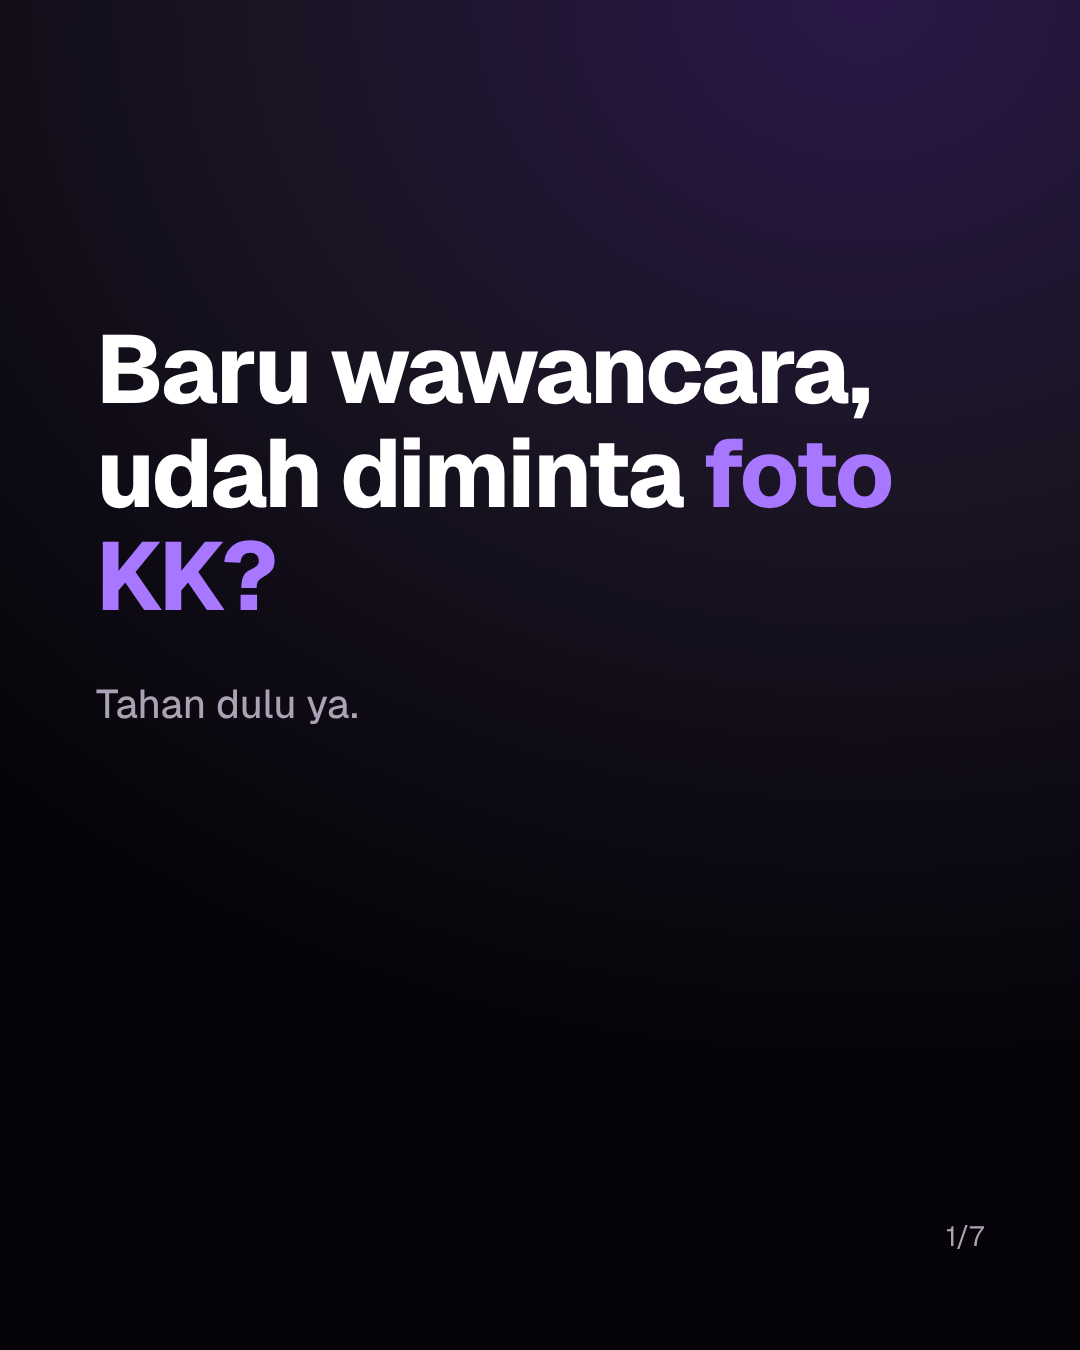
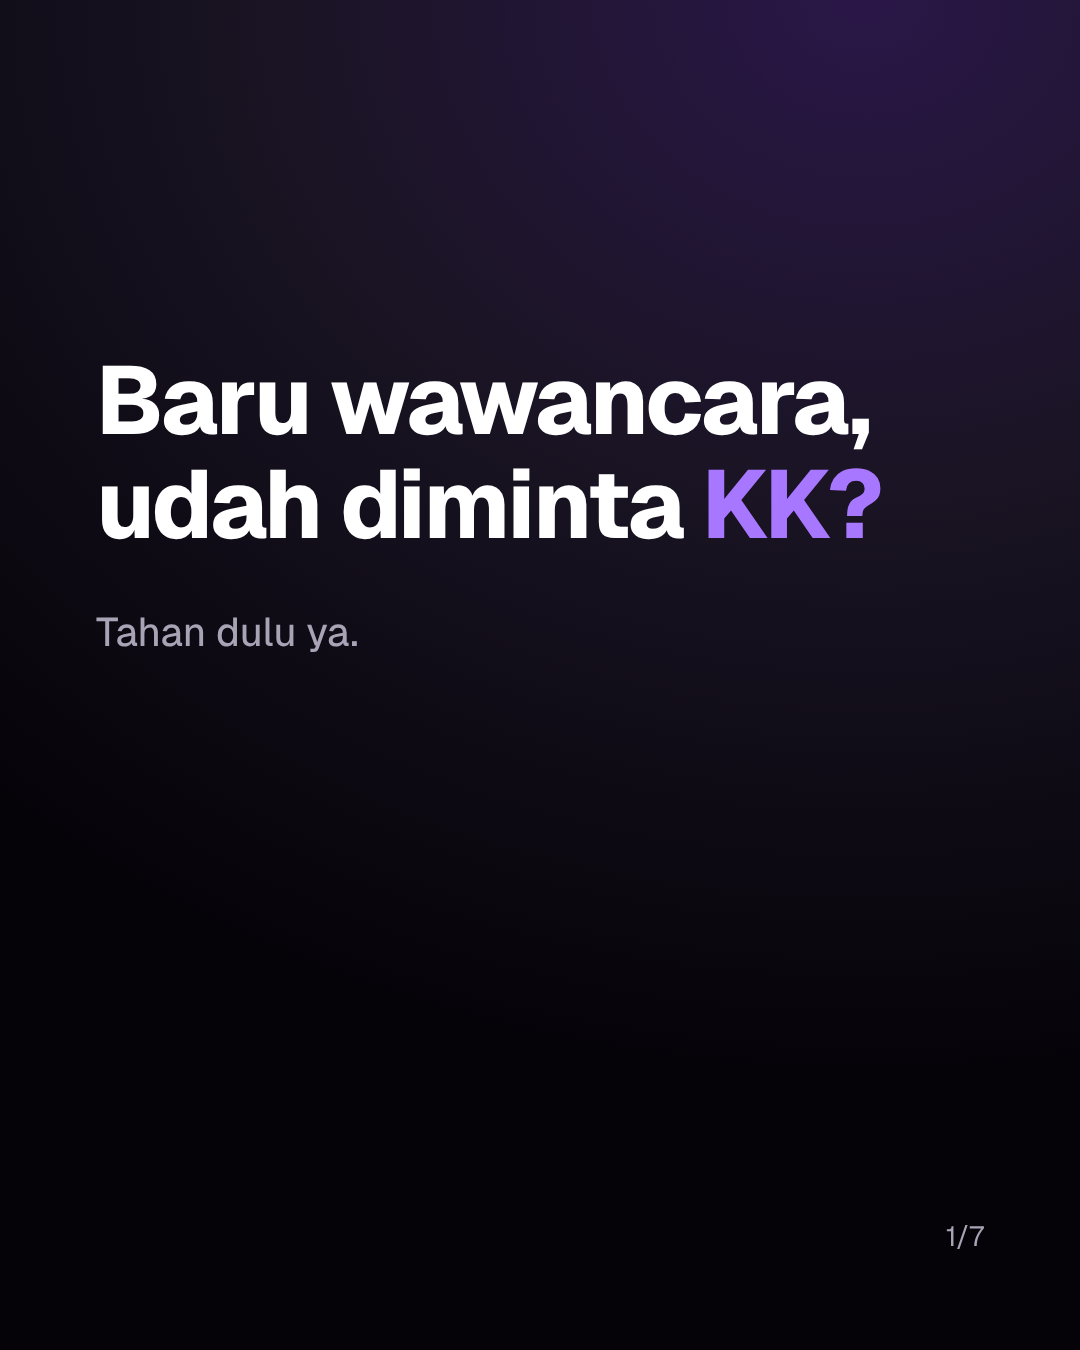
Drop 'foto' from the KK carousel hook
Claude-Session: https://claude.ai/code/session_01GcYmdDPpvHqY9aF3STLUN4

Changed region(s): [[0.0917, 0.2489, 0.825, 0.5289]]

diff --git a/cariinkerja.id/instagram/2026-11-03-jangan-serahkan-kk/caption.md b/cariinkerja.id/instagram/2026-11-03-jangan-serahkan-kk/caption.md
@@ -1,5 +1,5 @@
 <!-- Workflow 1 (topik dari Jordan). Level jualan 1: produk cuma di slide terakhir dan baris terakhir caption. Lihat brief.md. -->
-Baru tahap wawancara, udah diminta foto KK? Tahan dulu ya.
+Baru tahap wawancara, udah diminta KK? Tahan dulu ya.
 
 Jadi gini. KK itu bukan cuma datamu. Di situ ada NIK semua anggota keluarga, tanggal lahir, sampai nama ibu kandung, yang sering dipakai bank buat verifikasi. Sekali kekirim ke orang yang salah, yang kena bisa sekeluarga.
 
